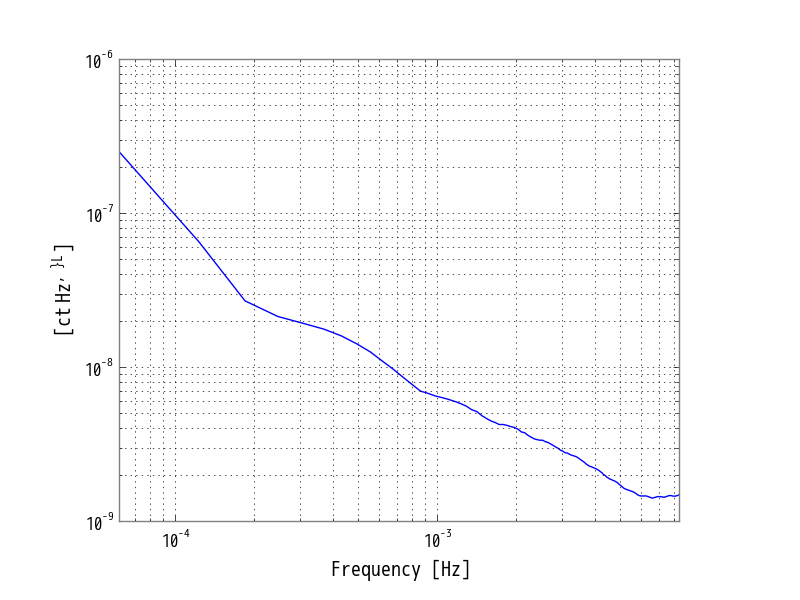
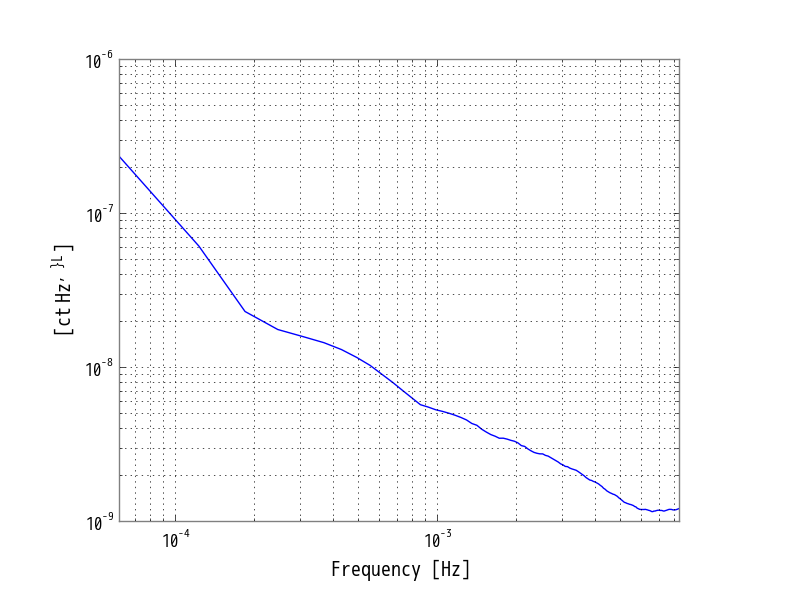
Add

diff --git a/ugm/strainmeter/main.py b/ugm/strainmeter/main.py
@@ -19,7 +19,7 @@ def nan_helper(y):
 
 start = tconvert('Nov 13 2019 00:00:00 JST')
 start = tconvert('Nov 16 2019 00:00:00 JST')
-end   = tconvert('Nov 20 2019 00:00:00 JST')
+end   = tconvert('Nov 22 2019 00:00:00 JST')
 #end   = tconvert('Nov 16 2019 03:00:00 JST')
 chname = ['K1:GIF-X_STRAIN_OUT_DQ.mean']
 fnamelist = existedfilelist(start,end,trend='minute')
